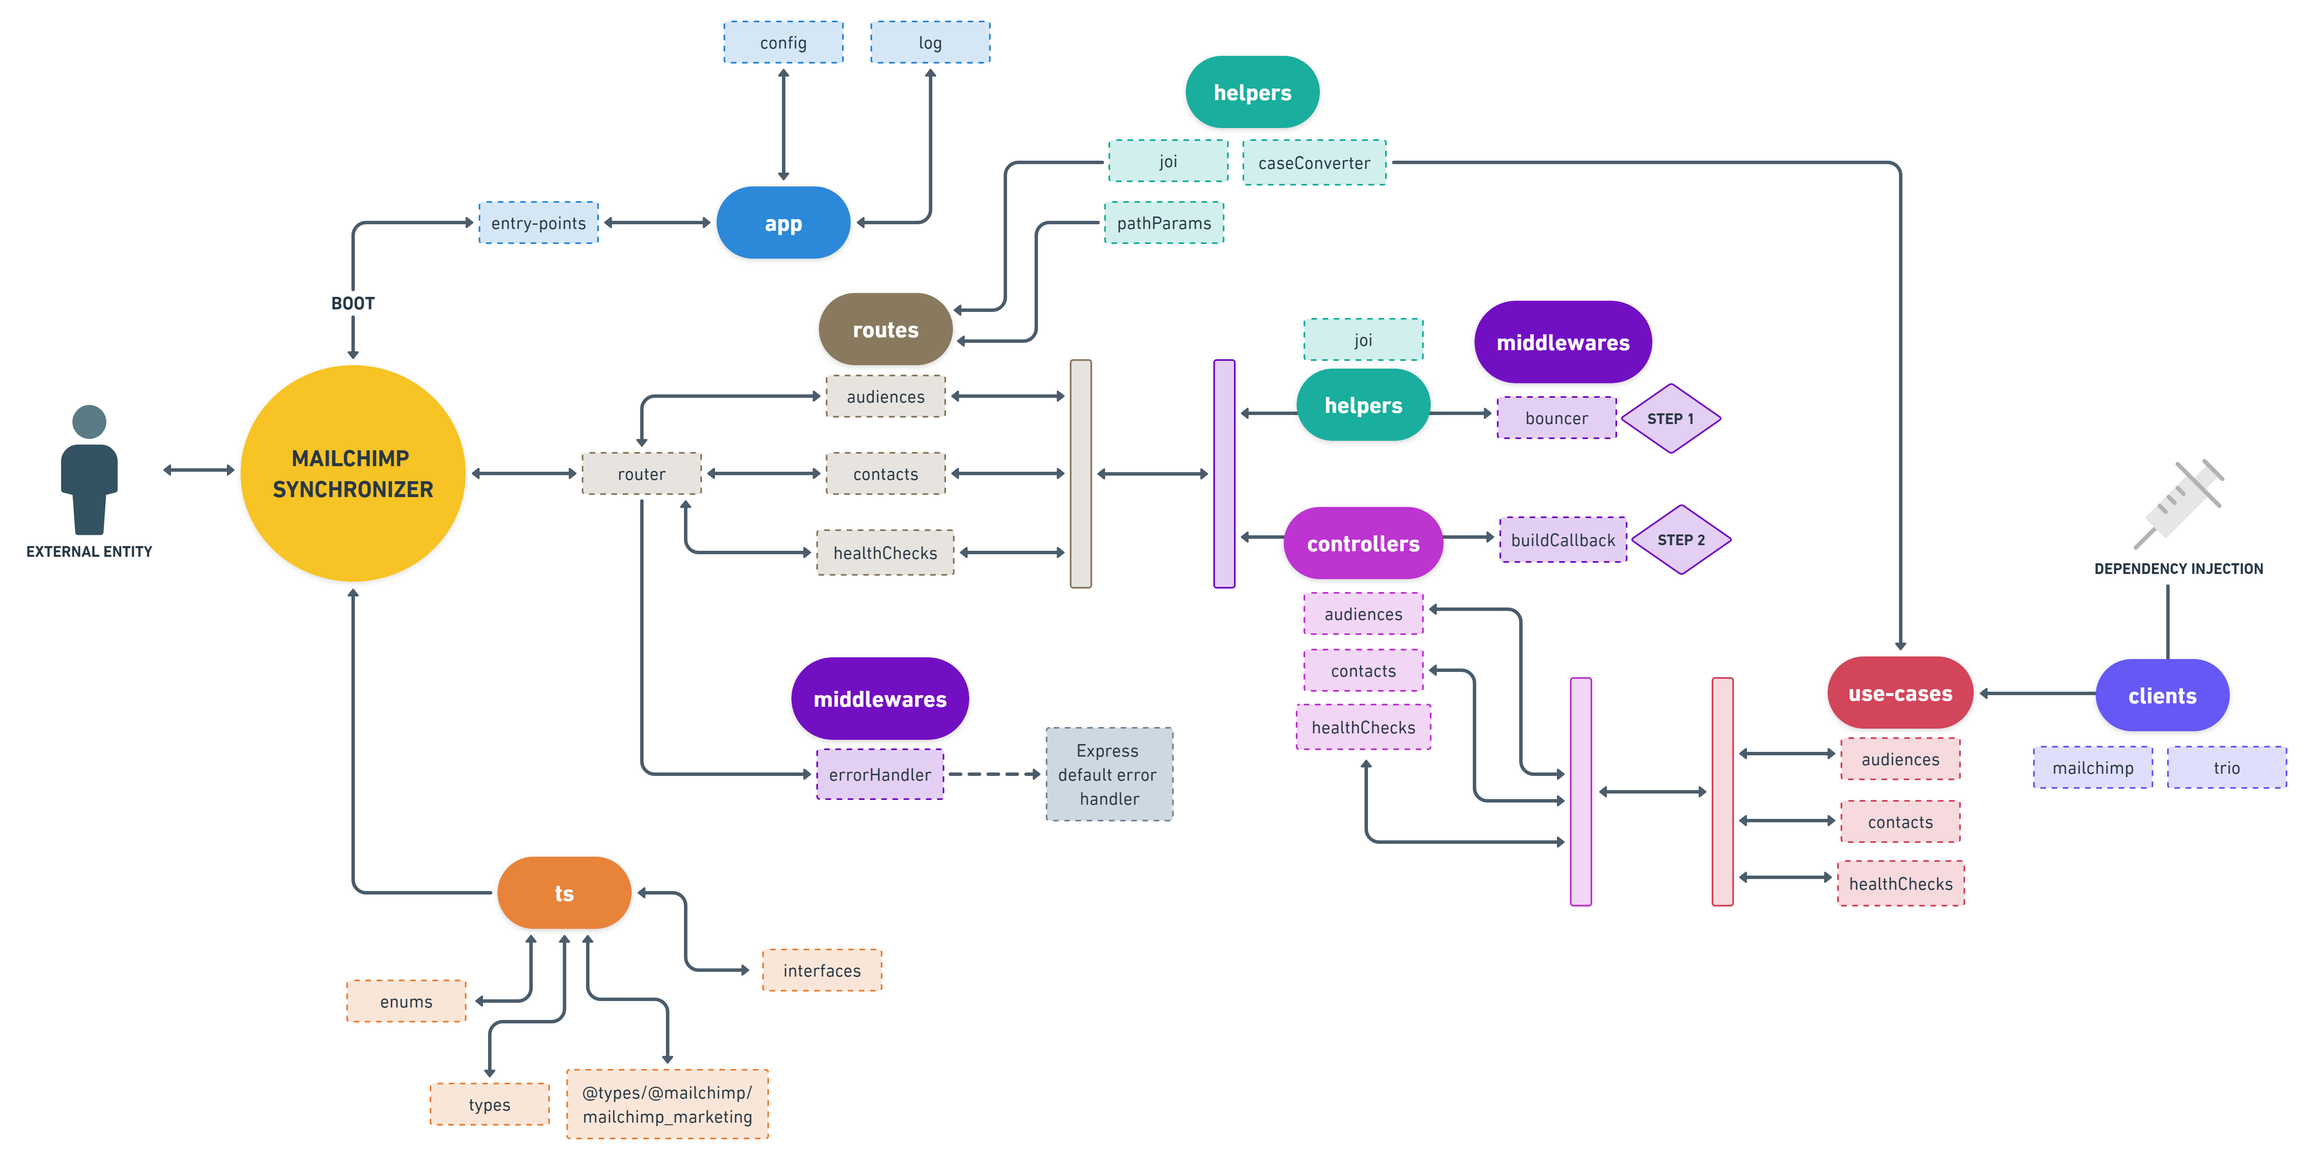
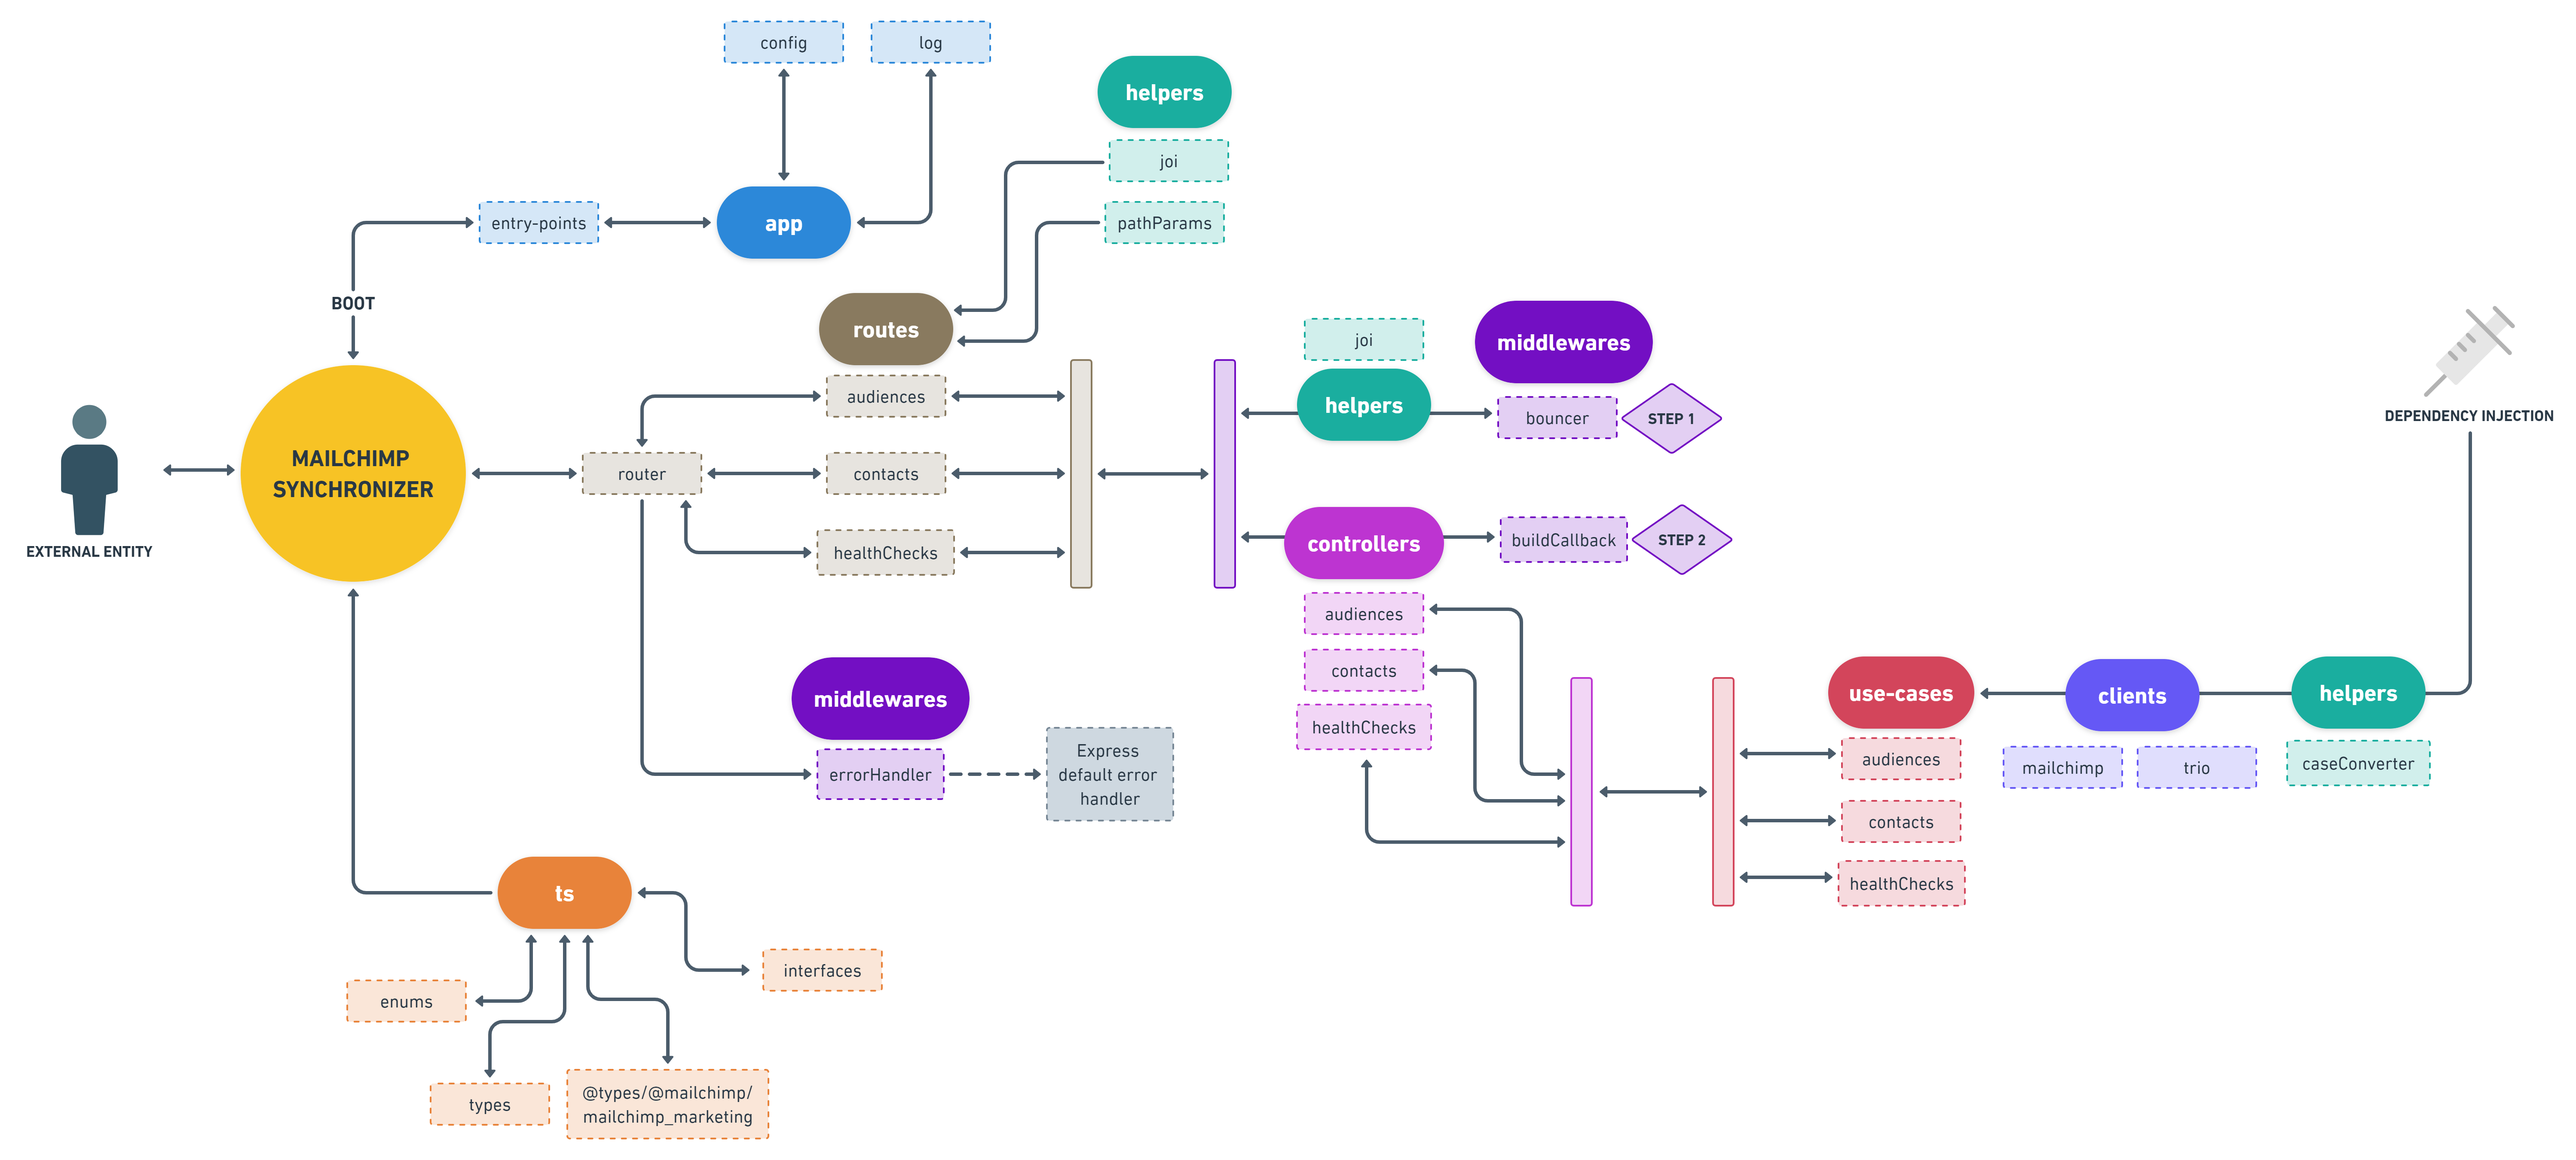
chore: inject caseConverter instead of importing

diff --git a/build/ts/interfaces.d.ts b/build/ts/interfaces.d.ts
@@ -4,6 +4,7 @@ import { IncomingHttpHeaders } from "http";
 import { StatusCodes } from "http-status-codes";
 import Joi from "joi";
 import { MailchimpClient, TrioClient } from "../clients/index.js";
+import { CaseConverter } from "../helpers/index.js";
 import { HttpMethod, ISO3166CountryCode, Language, Visibility } from "./enums.js";
 import { TAnyObject, TContact, TEmptyObject, TModify } from "./types.js";
 interface IConfig {
@@ -212,6 +213,7 @@ interface IBuildSyncContacts {
     mailchimpClient: MailchimpClient;
 }
 interface IBuildUpdateAudience {
+    caseConverter: CaseConverter;
     mailchimpClient: MailchimpClient;
 }
 export { IBuildPingMailchimp, IBuildSyncContacts, IBuildUpdateAudience, IClient, IConfig, IHttpRequest, IHttpResponse, IJoiBaseSchema, ILogger, IMailchimpHealthCheck, IPingMailchimpRequest, IPingMailchimpResponse, IPingRequest, IPingResponse, IRequestParams, ISyncContactsRequest, ISyncContactsResponse, ITrioContact, IUpdateAudienceRequest, IUpdateAudienceRequestBody, IUpdateAudienceRequestPath, IUpdateAudienceResponse, IUpdatedAudience, };

diff --git a/build/use-cases/contacts/use-cases.contacts.syncContacts.js b/build/use-cases/contacts/use-cases.contacts.syncContacts.js
@@ -1,4 +1,5 @@
 import { StatusCodes } from "http-status-codes";
+import { pick } from "lodash";
 import { config } from "../../app/index.js";
 import { Language, MemberStatus } from "../../ts/index.js";
 const { MAILCHIMP } = config;
@@ -19,11 +20,11 @@ function buildSyncContacts({ trioClient, mailchimpClient, }) {
             }),
         });
         const contacts = trioContacts.map((trioContact) => {
-            return {
-                firstName: trioContact.firstName,
-                lastName: trioContact.lastName,
-                email: trioContact.email,
-            };
+            return pick(trioContact, [
+                "firstName",
+                "lastName",
+                "email",
+            ]);
         });
         return {
             statusCode: StatusCodes.CREATED,

diff --git a/src/use-cases/contacts/use-cases.contacts.syncContacts.ts b/src/use-cases/contacts/use-cases.contacts.syncContacts.ts
@@ -1,4 +1,5 @@
 import { StatusCodes } from "http-status-codes";
+import { pick } from "lodash";
 
 import { config } from "../../app/index.js";
 import { IBuildSyncContacts, ISyncContactsResponse, Language, MemberStatus } from "../../ts/index.js";
@@ -30,11 +31,11 @@ function buildSyncContacts({
         );
 
         const contacts = trioContacts.map((trioContact) => {
-            return {
-                firstName: trioContact.firstName,
-                lastName: trioContact.lastName,
-                email: trioContact.email,
-            };
+            return pick(trioContact, [
+                "firstName",
+                "lastName",
+                "email",
+            ]);
         });
 
         return {

diff --git a/src/use-cases/audiences/use-cases.audiences.updateAudience.ts b/src/use-cases/audiences/use-cases.audiences.updateAudience.ts
@@ -1,10 +1,10 @@
 import { IUpdateListRequest } from "@mailchimp/mailchimp_marketing";
 import { StatusCodes } from "http-status-codes";
 
-import { caseConverter } from "../../helpers/index.js";
 import { IBuildUpdateAudience, IUpdateAudienceRequestBody, IUpdateAudienceResponse, IUpdatedAudience } from "../../ts/index.js";
 
 function buildUpdateAudience({
+    caseConverter,
     mailchimpClient,
 }: IBuildUpdateAudience) {
     return async function updateAudience(audienceId: string, audience: IUpdateAudienceRequestBody): Promise<IUpdateAudienceResponse> {

diff --git a/src/ts/interfaces.ts b/src/ts/interfaces.ts
@@ -4,6 +4,7 @@ import { StatusCodes } from "http-status-codes";
 import Joi from "joi";
 
 import { MailchimpClient, TrioClient } from "../clients/index.js";
+import { CaseConverter } from "../helpers/index.js";
 import { HttpMethod, ISO3166CountryCode, Language, Visibility } from "./enums.js";
 import { TAnyObject, TContact, TEmptyObject, TModify } from "./types.js";
 
@@ -228,6 +229,7 @@ interface IBuildSyncContacts {
 }
 
 interface IBuildUpdateAudience {
+    caseConverter: CaseConverter;
     mailchimpClient: MailchimpClient;
 }
 

diff --git a/build/use-cases/audiences/use-cases.audiences.updateAudience.d.ts b/build/use-cases/audiences/use-cases.audiences.updateAudience.d.ts
@@ -1,3 +1,3 @@
 import { IBuildUpdateAudience, IUpdateAudienceRequestBody, IUpdateAudienceResponse } from "../../ts/index.js";
-declare function buildUpdateAudience({ mailchimpClient, }: IBuildUpdateAudience): (audienceId: string, audience: IUpdateAudienceRequestBody) => Promise<IUpdateAudienceResponse>;
+declare function buildUpdateAudience({ caseConverter, mailchimpClient, }: IBuildUpdateAudience): (audienceId: string, audience: IUpdateAudienceRequestBody) => Promise<IUpdateAudienceResponse>;
 export default buildUpdateAudience;

diff --git a/build/use-cases/audiences/use-cases.audiences.updateAudience.js b/build/use-cases/audiences/use-cases.audiences.updateAudience.js
@@ -1,6 +1,5 @@
 import { StatusCodes } from "http-status-codes";
-import { caseConverter } from "../../helpers/index.js";
-function buildUpdateAudience({ mailchimpClient, }) {
+function buildUpdateAudience({ caseConverter, mailchimpClient, }) {
     return async function updateAudience(audienceId, audience) {
         const mailchimpRequest = caseConverter.toSnakeCase(audience);
         const _updatedAudience = await mailchimpClient.updateAudience(audienceId, mailchimpRequest);

diff --git a/build/helpers/index.js b/build/helpers/index.js
@@ -1,5 +1,5 @@
-import caseConverter from "./helpers.caseConverter.js";
+import caseConverter, { CaseConverter } from "./helpers.caseConverter.js";
 import pathParams from "./helpers.pathParams.js";
 import { updateAudienceSchema } from "./joi/index.js";
-export { caseConverter, pathParams, updateAudienceSchema };
+export { CaseConverter, caseConverter, pathParams, updateAudienceSchema };
 //# sourceMappingURL=index.js.map

diff --git a/src/helpers/index.ts b/src/helpers/index.ts
@@ -1,5 +1,5 @@
-import caseConverter from "./helpers.caseConverter.js";
+import caseConverter, { CaseConverter } from "./helpers.caseConverter.js";
 import pathParams from "./helpers.pathParams.js";
 import { updateAudienceSchema } from "./joi/index.js";
 
-export { caseConverter, pathParams, updateAudienceSchema };
+export { CaseConverter, caseConverter, pathParams, updateAudienceSchema };

diff --git a/build/helpers/index.d.ts b/build/helpers/index.d.ts
@@ -1,4 +1,4 @@
-import caseConverter from "./helpers.caseConverter.js";
+import caseConverter, { CaseConverter } from "./helpers.caseConverter.js";
 import pathParams from "./helpers.pathParams.js";
 import { updateAudienceSchema } from "./joi/index.js";
-export { caseConverter, pathParams, updateAudienceSchema };
+export { CaseConverter, caseConverter, pathParams, updateAudienceSchema };

diff --git a/build/use-cases/audiences/index.js b/build/use-cases/audiences/index.js
@@ -1,6 +1,8 @@
 import { mailchimpClient } from "../../clients/index.js";
+import { caseConverter } from "../../helpers/index.js";
 import buildUpdateAudience from "./use-cases.audiences.updateAudience.js";
 const updateAudience = buildUpdateAudience({
+    caseConverter,
     mailchimpClient,
 });
 const audiencesService = Object.freeze({

diff --git a/src/use-cases/audiences/index.ts b/src/use-cases/audiences/index.ts
@@ -1,7 +1,9 @@
 import { mailchimpClient } from "../../clients/index.js";
+import { caseConverter } from "../../helpers/index.js";
 import buildUpdateAudience from "./use-cases.audiences.updateAudience.js";
 
 const updateAudience = buildUpdateAudience({
+    caseConverter,
     mailchimpClient,
 });
 
